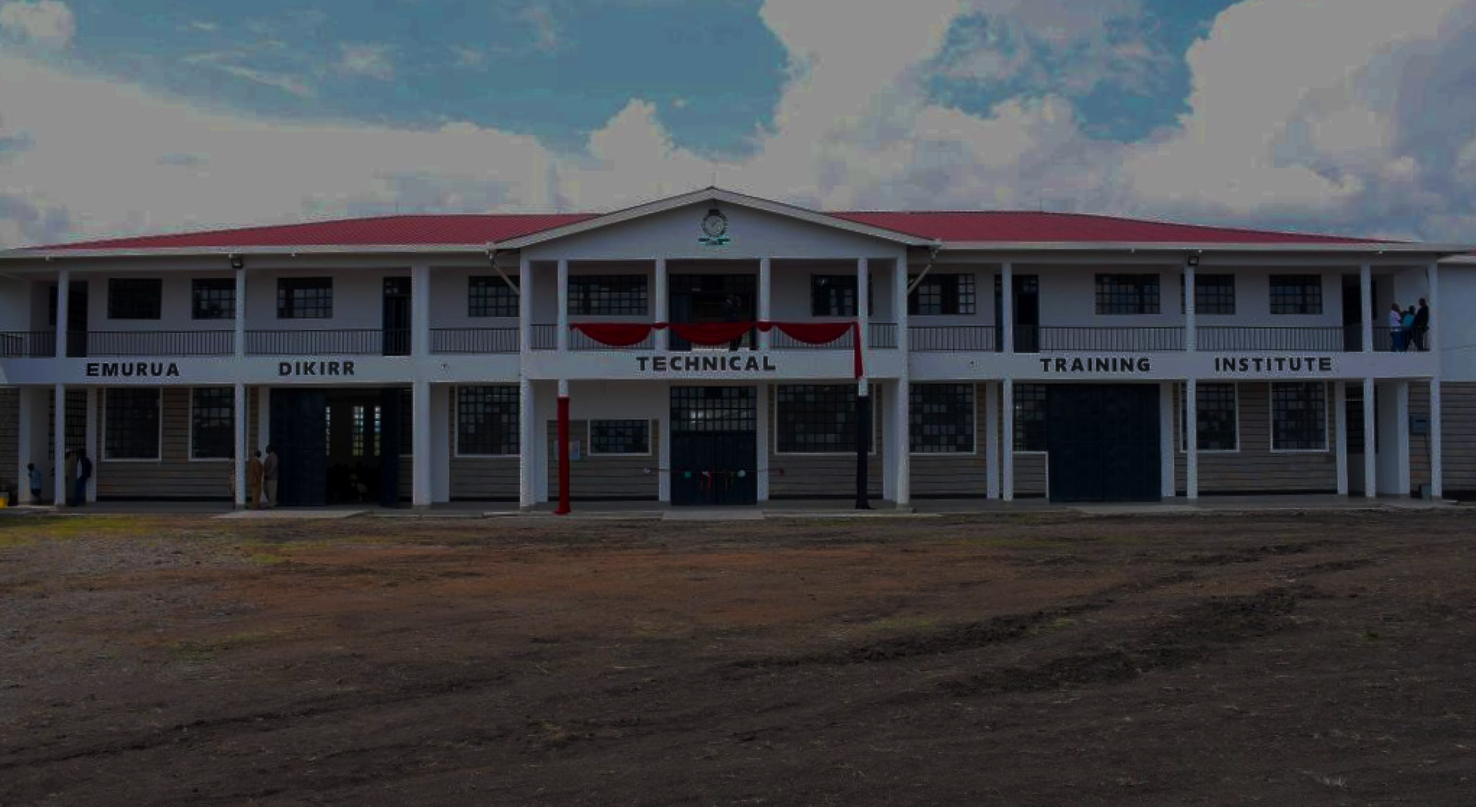
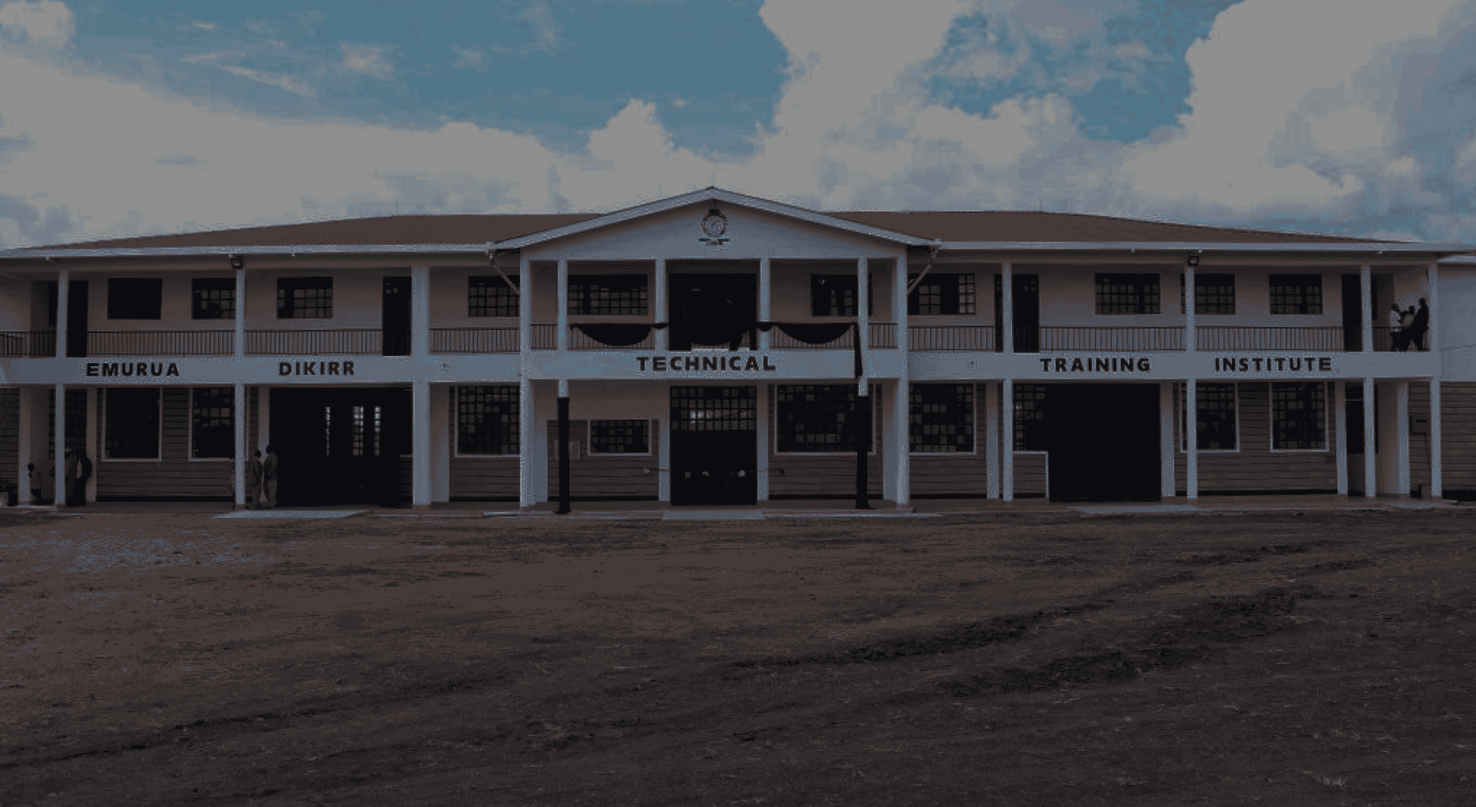
landing page image compressed

diff --git a/src/components/sections/LandingPage.tsx b/src/components/sections/LandingPage.tsx
@@ -38,20 +38,17 @@
 //           onLoad={() => setLoaded(true)}
 //         />
 
-    
 //       </div>
 
 //       {/* <div className='absolute top-0 left-0 w-full h-full bg-[linear-gradient(to_right,#002C35_20%,#002C35_30%,#002C35bf_50%,#002C3500_100%)]'></div> */}
 
 //       {/* <div className='text-card absolute left-0 bottom-55 w-[50%] h-[260px] mx-[4%]'> */}
 //       <div className='text-card absolute left-0 bottom-30 md:bottom-55 md:w-[50%] h-[260px] mx-[4%]'>
-     
 
 //         <Title className='text-white md:text-[4em] mb-1 font-sans'>
 
 //           Master the Craft, Secure the Future
 //         </Title>
-
 
 //         <Button
 //           onClick={() => navigate('/admissions')}
@@ -78,14 +75,16 @@
 
 // export default LandingPage
 
-
-
 import { Button, Image, Text, Title } from '@mantine/core'
 import School from '../../assets/college.png'
+import SchoolBlur from '../../assets/collegeblur.png'
+
 import { useNavigate } from 'react-router-dom'
+import { useState } from 'react'
 
 const LandingPage = () => {
   const navigate = useNavigate()
+  const [loaded, setLoaded] = useState(false)
 
   return (
     <div className='landing relative w-full h-[96vh] md:h-[110vh] overflow-hidden'>
@@ -93,7 +92,15 @@ const LandingPage = () => {
       <Image
         src={School}
         alt='School'
-        className='absolute inset-0 w-full h-full object-cover scale-105'
+        className='absolute inset-0 w-full h-full object-cover scale-105 mix-blend-multiply'
+        onLoad={() => setLoaded(true)}
+      />
+
+      <Image
+        src={SchoolBlur}
+        alt='Blurred'
+        className='absolute top-0 right-0 w-[80%] h-full object-cover mix-blend-multiply scale-105 blur-md transition-opacity duration-500'
+        style={{ opacity: loaded ? 0 : 1 }}
       />
 
       {/* Dark Gradient Overlay */}
@@ -105,7 +112,8 @@ const LandingPage = () => {
           Master the Craft, <br /> Secure the Future
         </Title>
         <Text className='text-gray-200 mt-4 md:mt-6 text-lg md:text-xl drop-shadow-md'>
-          Join Emurua Dikirr TTI to build your skills, expand your opportunities, and achieve excellence.
+          Join Emurua Dikirr TTI to build your skills, expand your
+          opportunities, and achieve excellence.
         </Text>
         <Button
           onClick={() => navigate('/admissions')}
